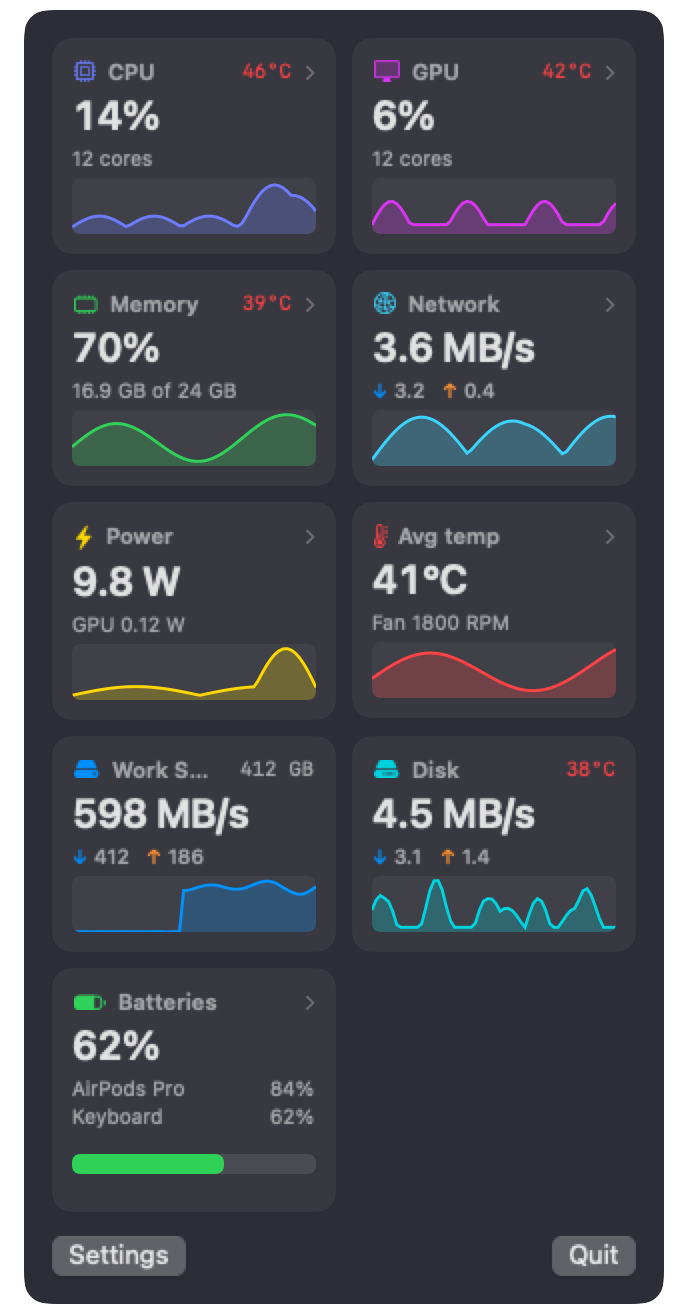
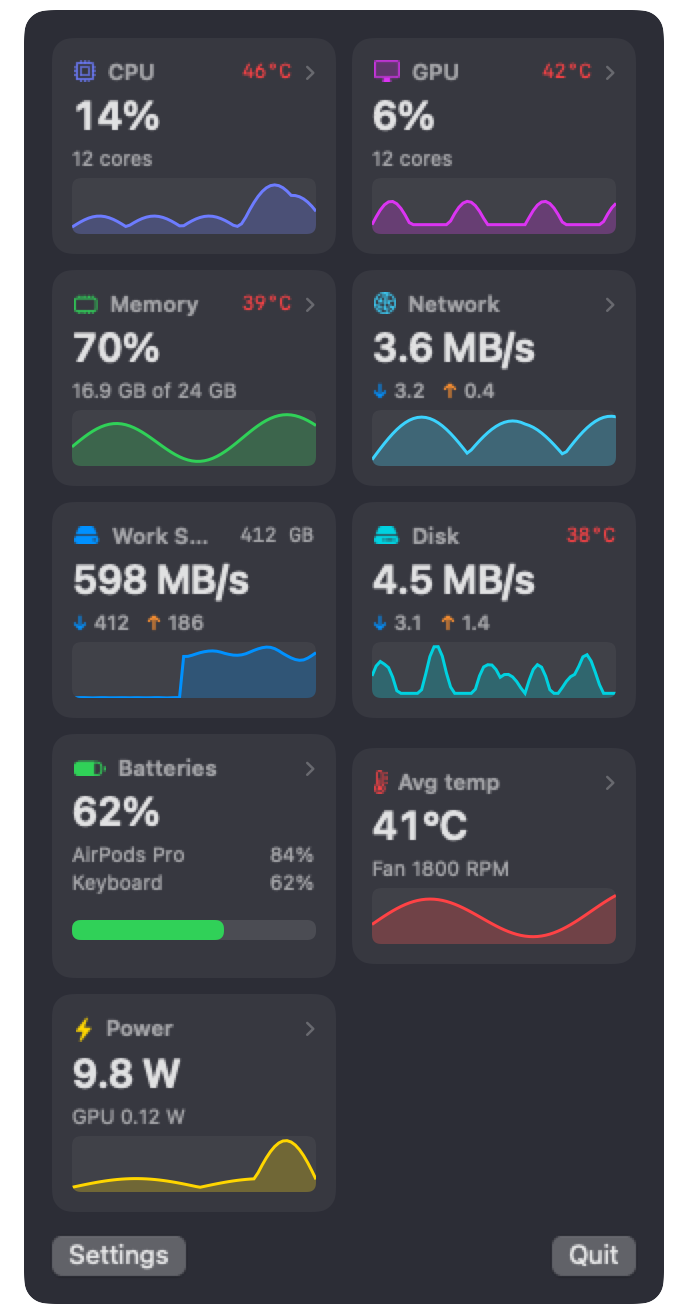
One order everywhere (menu bar too): CPU, GPU, Memory, Network, Drives, Disk, Batteries, Avg temp, Power

diff --git a/Sources/SystemMonitorApp/IconCells.swift b/Sources/SystemMonitorApp/IconCells.swift
@@ -8,7 +8,9 @@ extension Monitor {
     /// Read is blue and write is orange, matching the charts. Whatever is switched on is shown, in a
     /// fixed order, nothing is merged.
     func iconCells() -> [IconCell] {
-        var cells: [IconCell] = []
+        // Built in any order, then sorted into the same order as the panel and Settings.
+        var placed: [(item: MonitorItem, cell: IconCell)] = []
+        func put(_ item: MonitorItem, _ cell: IconCell) { placed.append((item, cell)) }
         let on = settings.menuBarItems
         let icons = settings.menuBarIcons
 
@@ -46,7 +48,7 @@ extension Monitor {
             case .critical: .systemRed
             }
             let gb = Double(ram.usedBytes) / 1_073_741_824
-            cells.append(cell(.memory, label: "MEM", value: String(format: "%.1f GB", gb),
+            put(.memory, cell(.memory, label: "MEM", value: String(format: "%.1f GB", gb),
                               short: String(format: "%.1f", gb), color: color,
                               samples: ["MEM", "88.8 GB"], shortSamples: ["88.8"], fraction: ram.usedFraction))
         }
@@ -73,16 +75,16 @@ extension Monitor {
         }
         if on.contains(.drives) {
             if externalDrives.isEmpty {
-                cells.append(cell(.drives, label: "SSD", value: "none", color: .secondaryLabelColor,
+                put(.drives, cell(.drives, label: "SSD", value: "none", color: .secondaryLabelColor,
                                   samples: ["SSD", "88.8 GB"], shortSamples: ["none"]))
             } else {
-                cells.append(driveCell(.drives, name: "SSD", read: externalRead, write: externalWrite, temp: nil))
+                put(.drives, driveCell(.drives, name: "SSD", read: externalRead, write: externalWrite, temp: nil))
             }
         }
         if on.contains(.disk), let d = internalDrive {
             let temp: (String, NSColor)? = settings.showTemperatures
                 ? thermal?.ssdC.map { (settings.temperature($0, symbol: false), .systemRed) } : nil
-            cells.append(driveCell(.disk, name: "DISK", read: d.readMBps, write: d.writeMBps, temp: temp))
+            put(.disk, driveCell(.disk, name: "DISK", read: d.readMBps, write: d.writeMBps, temp: temp))
         }
         if on.contains(.devices), let lowest = lowestBattery {
             // The symbol follows the level and is green, or red at 20% and below, so a full battery never looks empty.
@@ -97,13 +99,13 @@ extension Monitor {
                 built = IconCell(layout: .meter(fraction: f, meterColor: lowest <= 20 ? .systemRed : .systemGreen, value: value),
                                  color: built.color, widthSamples: built.widthSamples)
             }
-            cells.append(built)
+            put(.devices, built)
         }
         if on.contains(.network), !network.isEmpty {
-            cells.append(driveCell(.network, name: "NET", read: networkDown, write: networkUp, temp: nil))
+            put(.network, driveCell(.network, name: "NET", read: networkDown, write: networkUp, temp: nil))
         }
         if on.contains(.power), let watts = power?.systemWatts {
-            cells.append(cell(.power, label: "PWR", value: String(format: "%.1f W", watts),
+            put(.power, cell(.power, label: "PWR", value: String(format: "%.1f W", watts),
                               short: String(format: "%.1f W", watts),
                               samples: ["PWR", "88.8 W"], shortSamples: ["88.8 W"]))
         }
@@ -113,7 +115,7 @@ extension Monitor {
             var built = cell(.thermal, label: "TEMP", value: fan.map { avg == nil ? $0 : " " + $0 } ?? "",
                              samples: ["TEMP", "212° 9999rpm"], shortSamples: ["99° 9999rpm"])
             if let avg { built.accent = (avg, .systemRed); built.accentFirst = true }
-            cells.append(built)
+            put(.thermal, built)
         }
         for (item, label, load) in [(MonitorItem.cpu, "CPU", cpu), (.gpu, "GPU", gpu)] {
             guard on.contains(item), let load else { continue }
@@ -125,9 +127,10 @@ extension Monitor {
             var built = cell(item, label: label, value: percent, short: percent,
                              samples: [label, sample], shortSamples: ["99%"], fraction: load)
             if let temp { built.accent = (temp, .systemRed) }   // red temperature, like the panel
-            cells.append(built)
+            put(item, built)
         }
-        return cells
+        let order = MonitorItem.allCases
+        return placed.sorted { (order.firstIndex(of: $0.item) ?? 0) < (order.firstIndex(of: $1.item) ?? 0) }.map(\.cell)
     }
 
     /// The lowest battery level among the Mac's own battery and connected devices.

diff --git a/Sources/SystemMonitorApp/PanelView.swift b/Sources/SystemMonitorApp/PanelView.swift
@@ -64,7 +64,7 @@ struct PanelView: View {
 
     // MARK: Main panel
 
-    private static let tileOrder: [MonitorItem] = [.cpu, .gpu, .memory, .network, .power, .thermal, .drives, .disk, .devices]
+    private static let tileOrder: [MonitorItem] = [.cpu, .gpu, .memory, .network, .drives, .disk, .devices, .thermal, .power]
     /// Only these have more to show than their tile: cores and sensors, and the memory breakdown.
     private static let pageItems: Set<MonitorItem> = [.cpu, .gpu, .memory, .network, .power, .thermal, .devices]
 

diff --git a/Sources/SystemMonitorApp/Settings.swift b/Sources/SystemMonitorApp/Settings.swift
@@ -3,7 +3,7 @@ import SystemMonitorCore
 
 /// Things that can be shown in the menu bar icon and/or the panel.
 enum MonitorItem: String, CaseIterable, Identifiable {
-    case cpu, gpu, memory, network, power, thermal, drives, disk, devices
+    case cpu, gpu, memory, network, drives, disk, devices, thermal, power
 
     var id: String { rawValue }
 

diff --git a/CHANGELOG.md b/CHANGELOG.md
@@ -5,7 +5,7 @@
 Version 2.0 redesigns the panel and adds temperatures, per-core details and a simpler Settings screen.
 
 New interface
-- The panel is a grid of tiles (CPU, GPU, Memory, Power, Drives, Disk), each with one big number, a short caption and a small graph. Average temperature, batteries and the rest are tiles in the same grid (or one compact row each: Settings, Panel, Rows). About half the height of the old panel.
+- The panel is a grid of tiles (CPU, GPU, Memory, Power, Drives, Disk), each with one big number, a short caption and a small graph. Average temperature, batteries and the rest are tiles in the same grid (or one compact row each: Settings, Panel, Rows), in one order everywhere: CPU, GPU, Memory, Network, Drives, Disk, Batteries, Avg temp, Power. About half the height of the old panel.
 - Click the CPU, GPU or Memory tile for its full page. The other tiles show everything there is on the tile itself.
 - Graphs zoom to their own recent range with 10% headroom, so they always show detail and a spike never looks like it hits the maximum.
 - Read and write arrows on the drive tiles match the menu bar: blue down, orange up.
